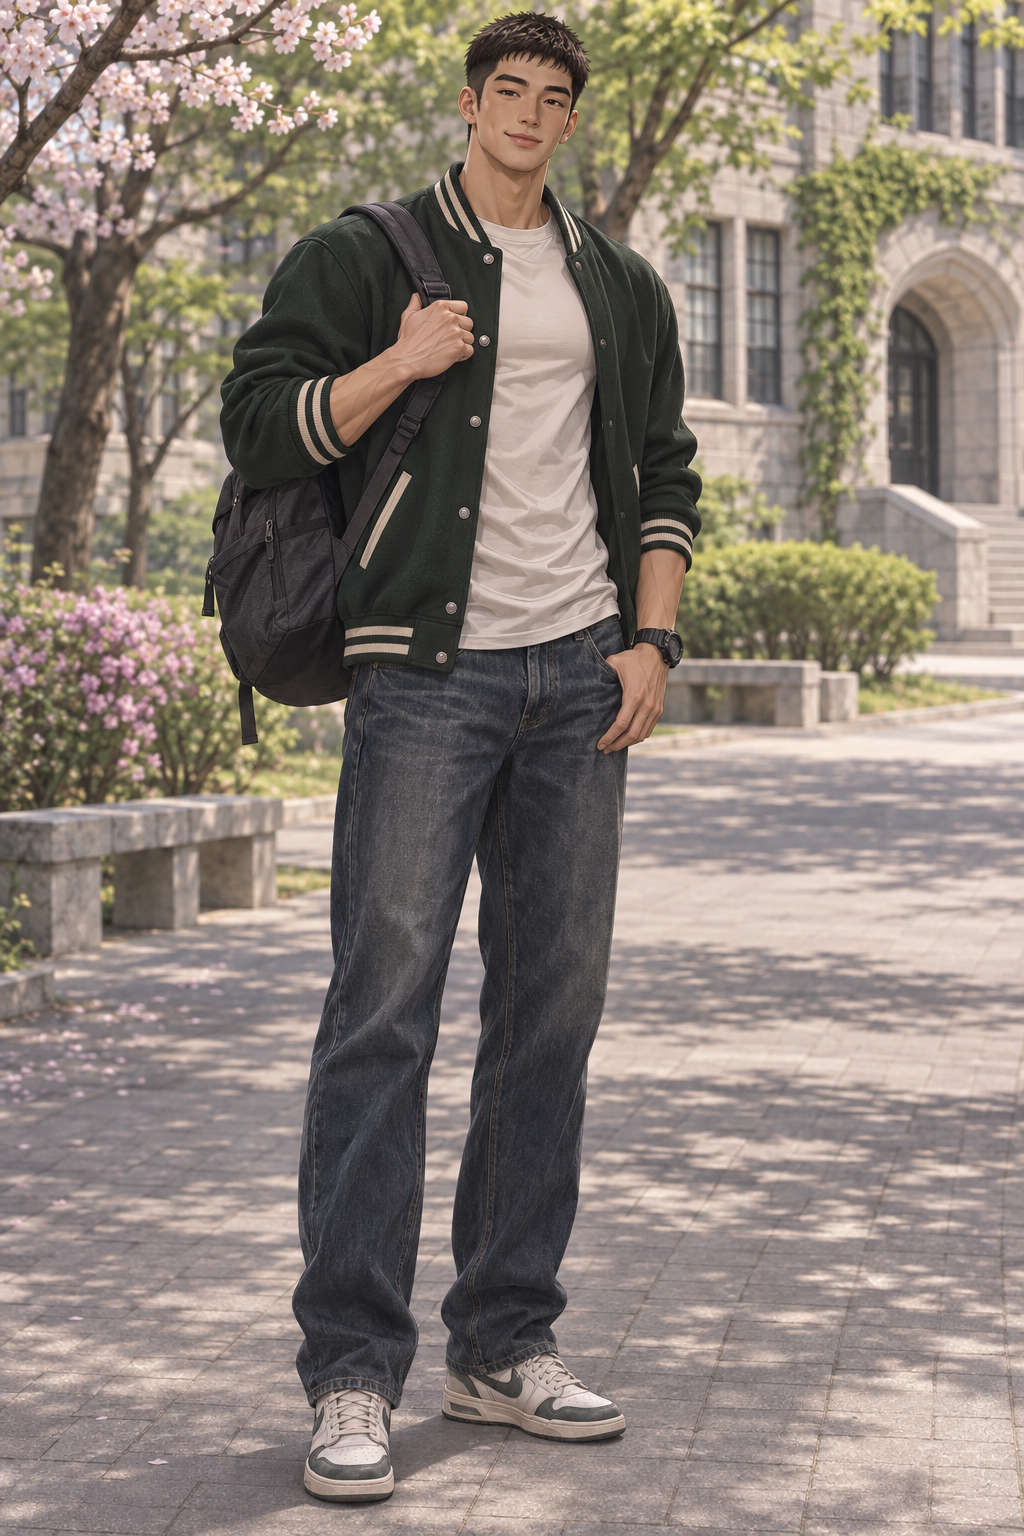
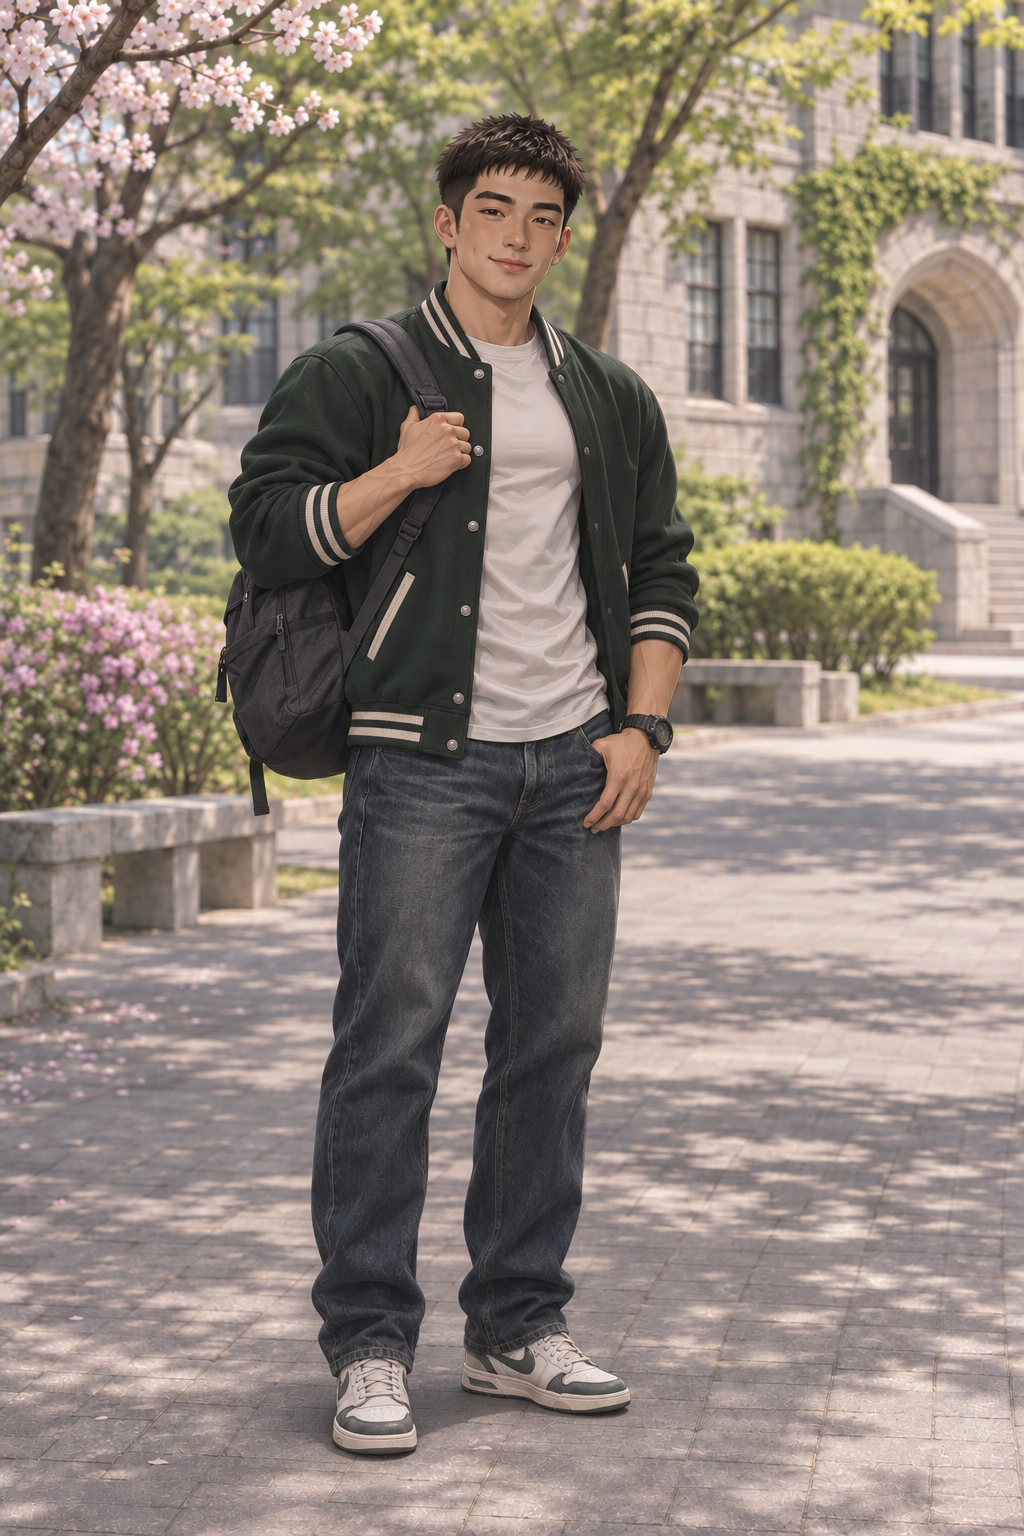
Correct Dogyeom illustration to more realistic head and body proportions

diff --git a/docs/ui-direction.md b/docs/ui-direction.md
@@ -442,3 +442,5 @@ NPC의 피로·부담·대화 여유는 숫자 게이지나 속마음 설명 대
 ### 남자 캐릭터 외형 초안: 윤도겸(가칭)
 
 사용자 요청으로 짧은 머리·건장한 체격의 남자 대학생 전신 시안을 만들었다. `dogyeom-fullbody-concept.png`에 짧은 짙은 갈색 머리, 넓고 두꺼운 어깨·상체, 부드러운 강아지상 얼굴, 짙은 초록색 바시티 재킷·흰 티셔츠·워싱 데님·농구화·백팩을 표현한다. 기존 남주와 눈매·얼굴 골격·머리 실루엣을 구분한다. 짧은 머리와 건장한 체격은 사용자 요청이며, 이름·상세 외모·옷차림은 수정 가능한 제안이다. 실제 NPC·일정·관계·개인 이벤트에는 아직 연결하지 않은 외형 검토 시안이다.
+
+도겸 전신 비율 보정: 사용자 지적에 따라 작게 보이던 머리 전체를 키우고 긴 목·몸통·다리의 비례를 줄였다. 현실적인 약 7~7.5등신을 목표로 목과 어깨의 연결을 맞추며 건장한 체격·짧은 머리·복장·얼굴 정체성은 유지한다. 같은 검토용 이미지 파일을 갱신했다.
